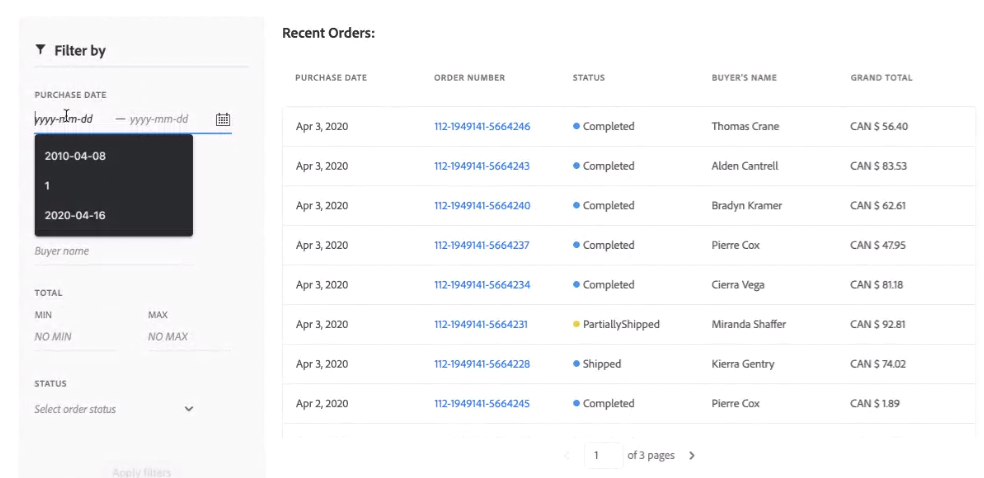
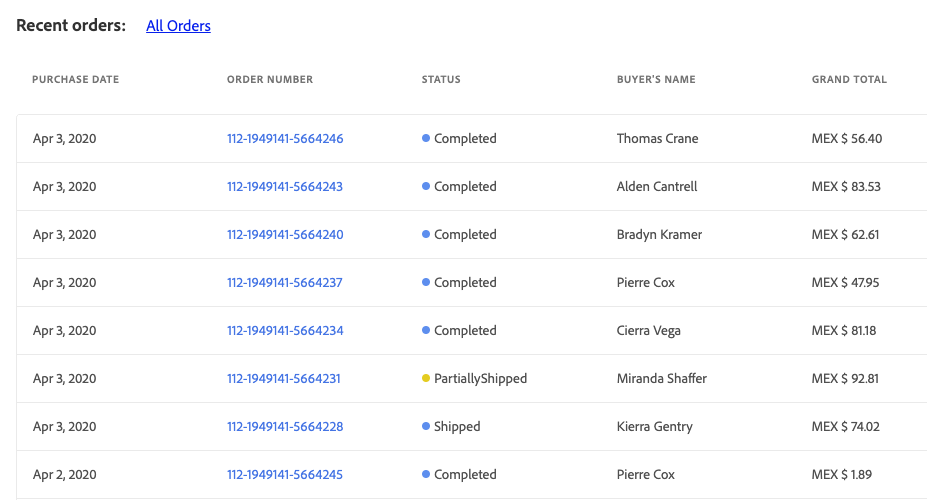
secondary updates to 4.1
- updated tocs for new topic
- added amazon orders topic
- updated and added screen shots
- added cross-reference links

diff --git a/src/sales-channels/asc/amazon-store-dashboard.md b/src/sales-channels/asc/amazon-store-dashboard.md
@@ -39,21 +39,15 @@ The store dashboard also includes store data and links to settings or more infor
    {:.bs-callout-info}
    **In Progress Listings** are either your _Ready to List_ listings or your _Incomplete Listings_, depending on your [_Product Listing Actions_]({% link sales-channels/asc/product-listing-actions.md %}) settings.<br/>If **Automatic List Action** is set to:<br/>- `Do Not Automatically List Eligible Products`, the link opens your [_Ready to List_]({% link sales-channels/asc/ready-to-list.md %}) listings.<br/>- `Automatically List Eligible Products`, the link opens your [_Incomplete_]({% link sales-channels/asc/incomplete-listings.md %}) listings.
 
-- **Recent Orders** - Shows information for your Amazon orders. The information listed is based on the information received from Amazon. This table does not update with Magento order information, even when [order import]({% link sales-channels/asc/order-settings.md %}) is enabled. See also, [Manage Orders and Fulfillment]({% link sales-channels/asc/managing-orders.md %}).
+- **Recent Orders** - Shows information for your most recent Amazon orders. The information listed is based on the information received from Amazon. This table does not update with Magento order information, even when [order import]({% link sales-channels/asc/order-settings.md %}) is enabled. To all your Amazon orders, click **All Orders**. See also, [Amazon Orders]({% link sales-channels/asc/amazon-orders-all.md %}) and [Manage Orders]({% link sales-channels/asc/managing-orders.md %}).
 
-   - Filter by
-      - Purchase Date
-      - Buyer Name
-      - Total
-      - Status
    - Purchase Date
    - Order Number
-
-      {:.bs-callout .bs-callout-info}
-      You can click the Amazon order number shown in the _Order Number_ column to access the order details. If order import is enabled in your [Order Settings]({% link sales-channels/asc/order-settings.md %}), clicking the order number link will open the corresponding Magento order in the [Magento Orders]({% link sales/orders.md %}) workflow. If order import is disabled in your [Order Settings]({% link sales-channels/asc/order-settings.md %}), clicking the order number link will open the order details in Amazon Seller Central.
-
    - Status
    - Buyer's Name
    - Grand Total
+
+      {:.bs-callout .bs-callout-info}
+      You can click the Amazon order number in the _Order Number_ column to access the order details. If order import is enabled in your [Order Settings]({% link sales-channels/asc/order-settings.md %}), clicking the order number link will open the corresponding Magento order in the [Magento Orders]({% link sales/orders.md %}) workflow. If order import is disabled in your [Order Settings]({% link sales-channels/asc/order-settings.md %}), clicking the order number link will open the order details in Amazon Seller Central.
 
 - **Seller Central links** - Provides links to important Amazon Seller Central information.

diff --git a/src/sales-channels/asc/amazon-orders-all.md b/src/sales-channels/asc/amazon-orders-all.md
@@ -1,0 +1,54 @@
+---
+title: Amazon Orders
+---
+
+
+To view a listing of all your Amazon orders, click **All Orders** on the store dashboard.
+
+![]({% link sales-channels/asc/assets/amazon-orders-list-all.png %}){: .zoom}
+_Amazon orders_
+
+_Amazon orders_ lists your order information as received from Amazon, including:
+
+- Purchase Date
+- Order Number
+- Status
+- Buyer's Name
+- Grand Total
+
+You can also narrow your order list using the _Filter by_ options:
+
+- Purchase Date (range)
+- Order Number
+- Buyer's Name
+- Total (range)
+- Status
+
+{:.bs-callout .bs-callout-info}
+The _Amazon orders_ table does not update with Magento order information, even when order import is enabled in Order Settings.
+
+## View all Amazon orders
+
+1. Click **View Store** on a store card.
+
+1. Click **All Orders** in the _Recent Orders_ section.
+
+1. To narrow the list or search for a specific item number, complete the **Filter by** parameters and click **Apply Filters**.
+
+1. To view order details, click the Amazon order number in the _Order Number_ column.
+
+   - If order import is enabled in your [Order Settings]({% link sales-channels/asc/order-settings.md %}), clicking the order number link will open the order in the [Magento Orders]({% link sales/orders.md %}) workflow.
+   - If order import is disabled in your [Order Settings]({% link sales-channels/asc/order-settings.md %}), clicking the order number link will open the order details in Amazon Seller Central.
+
+See also [Common Order Processing Tasks]({% link sales-channels/asc/common-order-processing.md %}).
+
+### Default Columns
+
+|Column|Description|
+|---|---|
+|Filter by|Narrow the list of orders based on:<br/>- Purchase Date (range)<br/>- Order Number<br/>- Buyer's Name<br/>- Total (range)<br/>- Status|
+|Purchase Date|The date of the purchase, as received from Amazon Seller Central.|
+|Order Number|The order number generated by Amazon. Click the link to view order details and fulfillment information.<br/>**Note:** If [order import]({% link sales-channels/asc/order-settings.md %}) is enabled, clicking this link opens the order in the Magento order workflow. If [order import]({% link sales-channels/asc/order-settings.md %}) is disabled, clicking this link opens the order in Amazon Seller Central. |
+|Status|The status of the order, as received by Amazon. Options: Pending / Unshipped / Shipped / Canceled / Completed / Partially Shipped |
+|Buyer's Name|The name of the person who placed the order, as received from Amazon.|
+|Grand Total|The total dollar value of the order, as received from Amazon.|

diff --git a/src/sales-channels/asc/managing-orders.md b/src/sales-channels/asc/managing-orders.md
@@ -16,15 +16,10 @@ _Recent Orders_ lists your order information as received from Amazon, including:
 - Buyer's Name
 - Grand Total
 
-You can also narrow your order list using the _Filter by_ options:
-
-- Purchase Date (range)
-- Buyer Name
-- Total (range)
-- Status
-
 {:.bs-callout .bs-callout-info}
 The _Recent Orders_ table does not update with Magento order information, even when order import is enabled in Order Settings.
+
+You can also view all your Amazon orders by clicking **All Orders**. See [Amazon Orders]({% link sales-channels/asc/amazon-orders-all.md %}).
 
 ## With Order Import Enabled
 
@@ -72,7 +67,7 @@ When disabled, order information received from Amazon appears in the _Recent Ord
    - If order import is enabled in your [Order Settings]({% link sales-channels/asc/order-settings.md %}), clicking the order number link will open the order in the [Magento Orders]({% link sales/orders.md %}) workflow.
    - If order import is disabled in your [Order Settings]({% link sales-channels/asc/order-settings.md %}), clicking the order number link will open the order details in Amazon Seller Central.
 
-See [Common Order Processing Tasks]({% link sales-channels/asc/common-order-processing.md %})
+See also [Common Order Processing Tasks]({% link sales-channels/asc/common-order-processing.md %}).
 
 ### Default Columns
 

diff --git a/src/sales-channels/asc/amazon-order-details.md b/src/sales-channels/asc/amazon-order-details.md
@@ -17,16 +17,19 @@ _Amazon Order Details_
 
     The _Amazon Order Details_ page opens.
 
+{:.bs-callout .bs-callout-info}
+If you have order import enabled in your [Order Settings]({% link sales-channels/asc/order-settings.md %}) and the order is is [fulfilled by Amazon (FBA)]({% link sales-channels/asc/fulfilled-by.md %}), you may see dummy data for some fields in the order details. Amazon does not send the following data for FBA orders.<br/>- AddressType<br/>- AddressLine1<br/>- AddressLine2<br/>- AddressLine3<br/>- BuyerName<br/>- Phone<br/>- PurchaseOrderNumber<br/>- RecipientName<br/>- CustomizedURL<br/>- GiftMessageText
+
 ### Order and Shipping Details tab
 
-The _Order and Shipping Details_ tab shows detailed order information.
+The _Order and Shipping Details_ tab shows detailed order information, as received from Amazon.
 
 ![]({% link sales-channels/asc/assets/amazon-order-details.png %}){: .zoom}
 _Order and Shipping Details_
 
 ### Order Items tab
 
-The _Order Items_ tab shows all items associated with the Amazon order.
+The _Order Items_ tab shows all items associated with the Amazon order, as received from Amazon.
 
 ![]({% link sales-channels/asc/assets/amazon-order-item-details.png %}){: .zoom}
 _Order Item Details_

diff --git a/src/sales-channels/asc/fulfilled-by.md b/src/sales-channels/asc/fulfilled-by.md
@@ -16,6 +16,9 @@ Fulfilled By settings define who fulfills (or ships) orders. If all of your orde
 
 The fulfillment method is a regional attribute, and based on the **Amazon Marketplace Country** setting defined during [store integration]({% link sales-channels/asc/store-integration.md %}). When a change is made, the change will affect all Amazon listings that share that Amazon Seller SKU in your Amazon stores that sell in the same region (as defined in **Amazon Marketplace Country** during [store integration]({% link sales-channels/asc/store-integration.md %})). This means that a change to a shared Amazon Seller SKU in the United States will not affect your Amazon stores with a region set for a different region (as defined during the store integration).
 
+{:.bs-callout .bs-callout-info}
+When an order is is fulfilled by Amazon (FBA) and the order is imported, you may see dummy data for some fields in the order details. See [Amazon Order Details]({% link sales-channels/asc/amazon-order-details.md %}).
+
 ## Configure Fulfilled By settings
 
 1. Click **Listing Settings** on the store dashboard.
